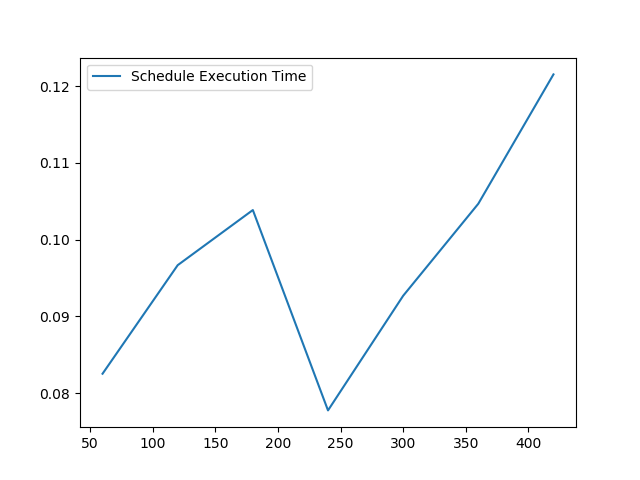
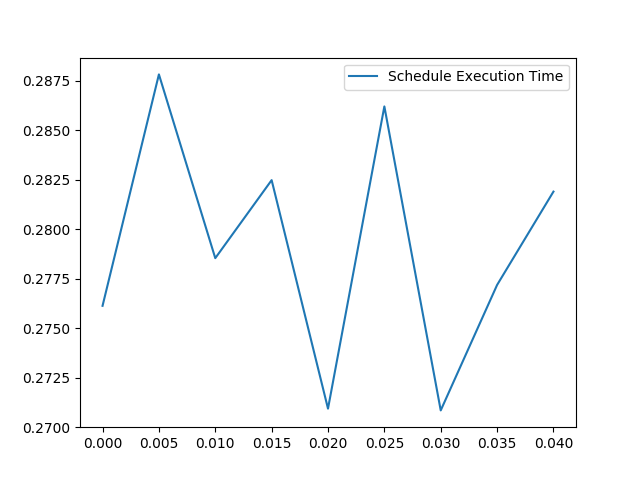
Update graphs

diff --git a/utils/plot_for_paper.py b/utils/plot_for_paper.py
@@ -3,7 +3,7 @@
 import pylab
 import pandas as pd
 
-ROOT_DIR = "../batch_output/sfo-terminal-2-uc-failed/"
+ROOT_DIR = "../batch_output/sfo-terminal-2-uc-success-long-uc/"
 METRICS_CSV = ROOT_DIR + "metrics.csv"
 FAILED_CSV = ROOT_DIR + "logs.csv"
 # INDEX = "simulation.reschedule_cycle"
